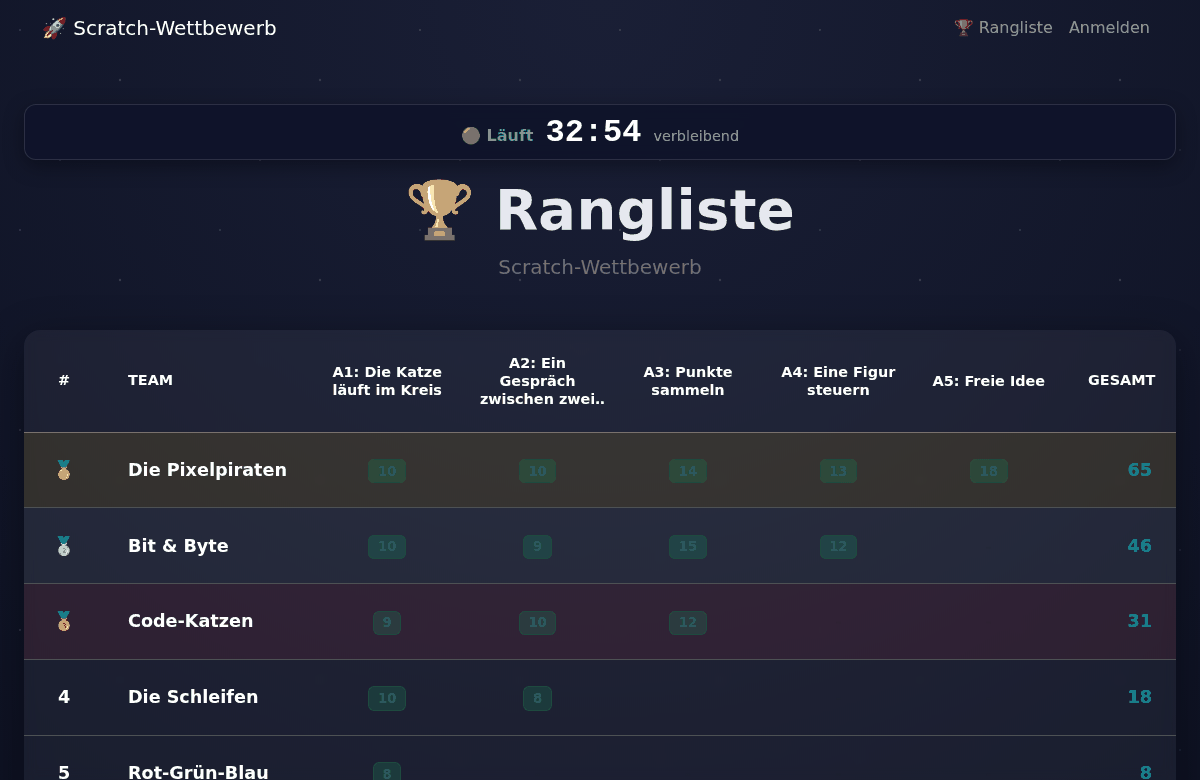
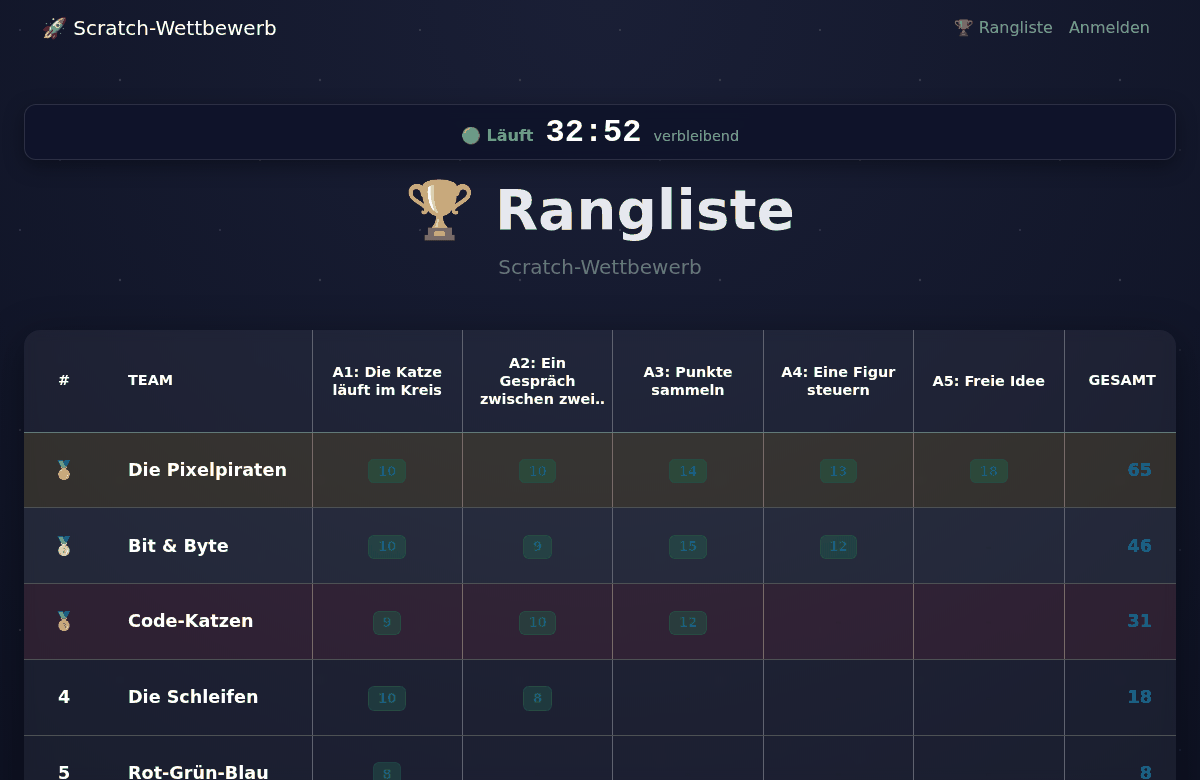
Rangliste: senkrechte Striche zwischen den Aufgaben
Jede Aufgabenspalte und Gesamt bekommen links eine Linie mit 30 % Weiss,
damit man am Beamer in der richtigen Spalte bleibt. Platz und Team bleiben
ohne Linie. README-Bild, README und Leitfaden nachgezogen.

Claude-Session: https://claude.ai/code/session_01ACRifaqe4uUcFhZfaKFc9K

diff --git a/templates/scoreboard.html b/templates/scoreboard.html
@@ -38,7 +38,7 @@
               <th class="ranglisten-platz p-4 text-center">#</th>
               <th class="ranglisten-team p-4">Team</th>
               {% for task in tasks %}
-              <th class="py-4 px-2 text-center" title="A{{ loop.index }}: {{ task.title }}">
+              <th class="ranglisten-spalte py-4 px-2 text-center" title="A{{ loop.index }}: {{ task.title }}">
                 {% if aufgabentitel %}<span class="ranglisten-aufgabe">A{{ loop.index }}: {{ task.title }}</span>{% else %}A{{ loop.index }}{% endif %}
               </th>
               {% endfor %}
@@ -60,7 +60,7 @@
               </td>
 
               {% for task in tasks %}
-              <td class="py-4 px-2 text-center">
+              <td class="ranglisten-spalte py-4 px-2 text-center">
                 {% set points = team.task_points[task.id] %}
                 {% if points %}
                 <span class="badge bg-success bg-opacity-25 text-success border border-success border-opacity-25">
@@ -75,7 +75,7 @@
               </td>
               {% endfor %}
 
-              <td class="p-4 text-end fw-bold text-primary">
+              <td class="ranglisten-gesamt p-4 text-end fw-bold text-primary">
                 {{ team.total }}
               </td>
 

diff --git a/static/style.css b/static/style.css
@@ -371,6 +371,15 @@ input::placeholder, textarea::placeholder {
   width: 80px;
 }
 
+/* Senkrechte Linien vor jeder Aufgabe und vor „Gesamt“: Am Beamer liest
+   man eine Zeile quer über viele schmale Spalten, ohne Linien rutscht das
+   Auge leicht in die Nachbarspalte. Platz und Team bleiben ohne Linie, sie
+   gehören zusammen. */
+.ranglisten-tabelle .ranglisten-spalte,
+.ranglisten-tabelle .ranglisten-gesamt {
+  border-left: 1px solid rgba(255, 255, 255, 0.3);
+}
+
 /* Am Beamer müssen Platz und Gesamtpunkte ohne Schieben zu sehen sein, auch
    bei vierzehn Aufgaben. Deshalb teilt sich die Tabelle ab Laptopbreite die
    Breite der Seite: Platz, Team und Gesamt haben feste Spalten, die Aufgaben

diff --git a/tests/test_reihenfolge.py b/tests/test_reihenfolge.py
@@ -247,3 +247,29 @@ class TestTitelInDerRangliste:
 
         assert 'name="scoreboard_task_titles"' in html
         assert "Aufgabentitel über den Spalten zeigen" in html
+
+
+class TestSpaltenlinien:
+    """Senkrechte Striche trennen am Beamer die Aufgaben voneinander."""
+
+    def test_jede_aufgabe_und_gesamt_haben_eine_linie(self, client, drei, make_team):
+        make_team(drei, name="Team Blitz")
+
+        html = client.get("/scoreboard").get_data(as_text=True)
+
+        # drei Köpfe und drei Zellen je Team, dazu Kopf und Zelle für Gesamt
+        assert html.count('class="ranglisten-spalte ') == 6
+        assert html.count('class="ranglisten-gesamt ') == 2
+
+    def test_platz_und_team_ohne_linie(self):
+        from pathlib import Path
+
+        css = (Path(__file__).parent.parent / "static" / "style.css").read_text(encoding="utf-8")
+        regel = re.search(r"([^{}]*)\{[^}]*border-left: 1px solid rgba\(255, 255, 255, 0\.3\)", css)
+
+        assert regel, "Regel für die Spaltenlinien fehlt"
+        auswahl = regel.group(1)
+        assert ".ranglisten-spalte" in auswahl
+        assert ".ranglisten-gesamt" in auswahl
+        assert ".ranglisten-team" not in auswahl
+        assert ".ranglisten-platz" not in auswahl

diff --git a/README.md b/README.md
@@ -79,7 +79,7 @@ Für den Wettbewerbstag selbst: [Leitfaden](#-leitfaden-für-den-wettbewerbstag)
 *   **Eigene Fehlerseiten**: deutscher Satz und ein Weg zurück statt der englischen Seite des Webservers. Die gewöhnlichen Missgeschicke landen gar nicht dort, sondern als Meldung auf der Wettbewerbsseite des Teams.
 
 ### Für den Beamer
-*   **Rangliste**: Punkte je Aufgabe und Gesamtstand, über jeder Spalte Nummer und Titel der Aufgabe („A1: Die Katze läuft im Kreis“, der Titel lässt sich abschalten), auch mit fünfzehn Aufgaben ohne seitliches Schieben, lädt sich alle 30 Sekunden selbst neu. Oben läuft dieselbe Restzeit mit, die die Teams sehen — die Seite für den ganzen Wettbewerb.
+*   **Rangliste**: Punkte je Aufgabe und Gesamtstand, über jeder Spalte Nummer und Titel der Aufgabe („A1: Die Katze läuft im Kreis“, der Titel lässt sich abschalten), senkrechte Striche zwischen den Aufgaben, auch mit fünfzehn Aufgaben ohne seitliches Schieben, lädt sich alle 30 Sekunden selbst neu. Oben läuft dieselbe Restzeit mit, die die Teams sehen — die Seite für den ganzen Wettbewerb.
 *   **Siegerehrung**: Podium der besten drei, Platz für Platz aufzudecken (Leertaste oder Knopf). Bei Gleichstand teilen sich Teams einen Platz, und der nächste rückt nach: 10, 10 und 8 Punkte ergeben zwei erste Plätze und einen zweiten, kein Platz bleibt leer.
 
 ### Ohne Installationsaufwand

diff --git a/docs/ADMIN_GUIDE.md b/docs/ADMIN_GUIDE.md
@@ -139,8 +139,10 @@ Was dort steht, weiß nur, wer mit einer echten Klasse im Raum stand.
    dass die Teams ihn erst nach dem Aktivieren sehen.
 3. Rangliste `/scoreboard` an die Wand werfen. Oben läuft die Zeit, darunter
    füllt sich die Tabelle, sobald du bewertest. Über jeder Spalte stehen
-   Nummer und Titel der Aufgabe, ein langer Titel gekürzt; ab Laptopbreite
-   passt die Tabelle mit „Gesamt“ immer ganz auf die Seite.
+   Nummer und Titel der Aufgabe, ein langer Titel gekürzt; senkrechte
+   Striche trennen die Aufgaben, damit man auch hinten im Raum in der
+   richtigen Spalte bleibt. Ab Laptopbreite passt die Tabelle mit „Gesamt“
+   immer ganz auf die Seite.
 4. Teams registrieren sich selbst auf der Startseite `/`: Teamname und ein
    Passwort, das sie sich ausdenken. Jedes Team merkt sich beides. Danach
    landen sie auf ihrer Wettbewerbsseite `/challenge`, wo die Restzeit über
